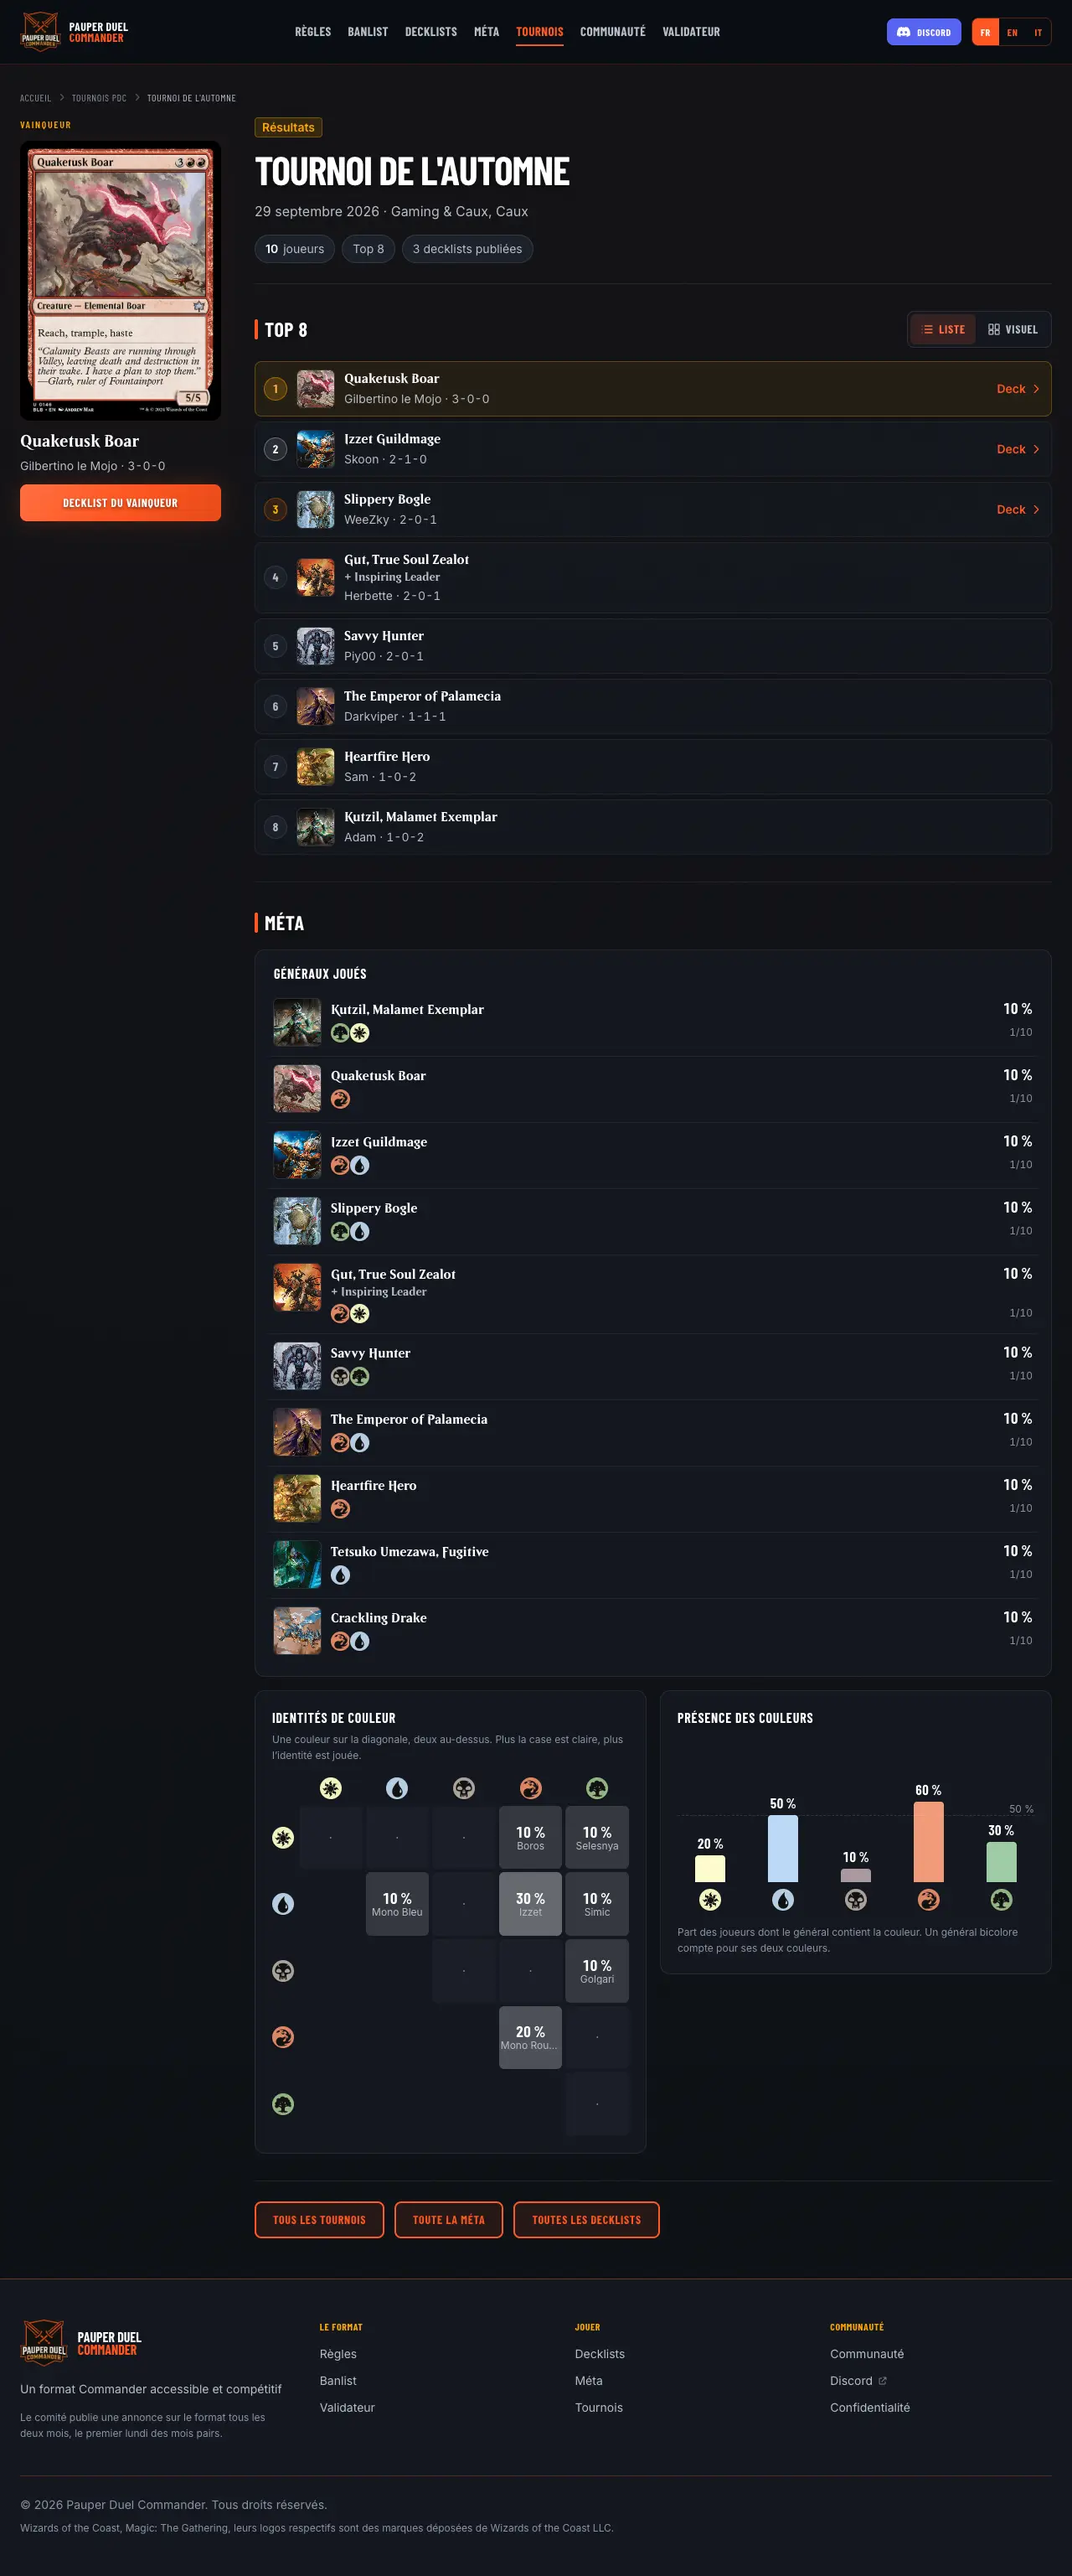
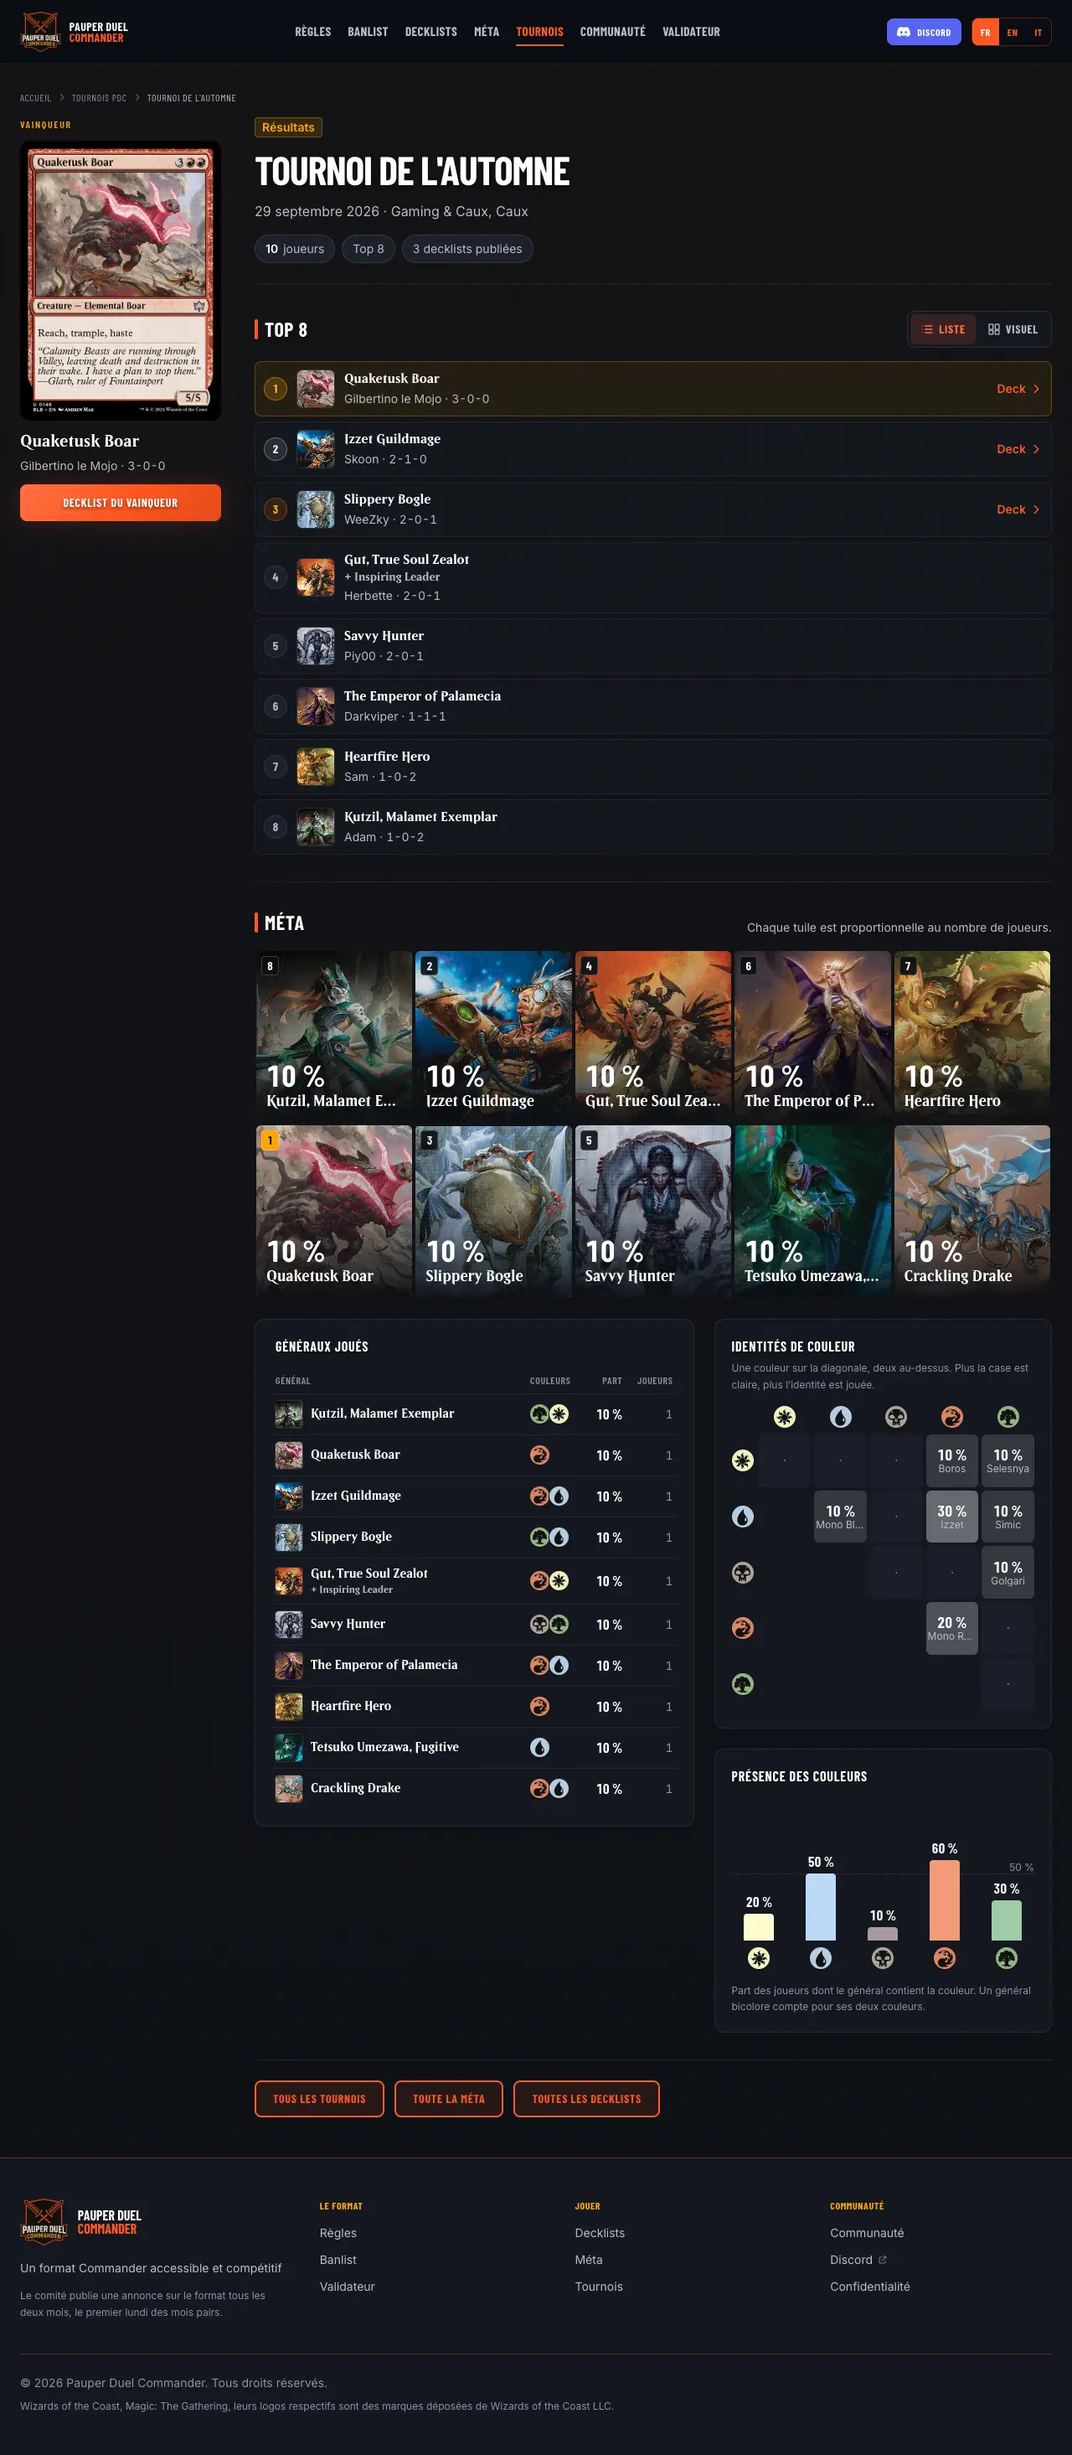
Tournoi : le plateau en mosaïque, places du top 8 marquées
Retenu après prototypes (la mosaïque de tous les tournois sur la liste a été
écartée) :
- La section Méta d'un tournoi reprend la page méta : mosaïque du plateau, puis
  le tableau, la grille des guildes et les colonnes de couleurs. La meilleure
  place atteinte au top 8 est marquée sur la tuile du général (or pour le
  vainqueur) : on voit ce qui a été joué et ce qui a converti.
- Le tableau de la page méta devient un composant partagé (CommanderTable).
- Les places se retrouvent aussi par la carte principale : un top 8 peut écrire
  « Gut, True Soul Zealot » là où le plateau note la paire avec son partenaire.

diff --git a/site/src/styles/results.css b/site/src/styles/results.css
@@ -50,6 +50,11 @@
     @apply bg-magic-gold border-magic-gold-light text-bg-primary;
   }
 
+  /* A place reached in the top 8, on a mosaic tile: its label is at the bottom. */
+  .tile-badge--top {
+    @apply top-1.5 bottom-auto;
+  }
+
   .tile-badge--banned {
     @apply top-1.5 right-1.5 bottom-auto left-auto text-xs uppercase tracking-wider bg-red-600 border-red-400 text-white;
   }

diff --git a/CLAUDE.md b/CLAUDE.md
@@ -317,7 +317,11 @@ réencodées, pas des sources :
   est un conteneur de taille : ses libellés apparaissent selon la place
   (requêtes `@container` dans `results.css`, tailles de police hors utilitaires).
   Identités en grille des guildes (`GuildGrid`), couleurs en colonnes
-  (`ColorColumns`), sur la page méta comme sur chaque tournoi.
+  (`ColorColumns`), chiffres exacts dans `CommanderTable`.
+- Page d'un tournoi : son plateau suit le même schéma (mosaïque, tableau, guildes,
+  couleurs) ; la meilleure place de chaque général au top 8 est marquée sur sa
+  tuile (`places`, clé sur le nom complet et sur la carte principale, car un top 8
+  peut écrire une paire sans son partenaire).
 - Une barre de part (`share-bar`) mesure sa part sur 100 %, jamais par rapport au
   plus grand de sa liste, et se lit à côté de son nombre imprimé. Avec une échelle
   par graphique, 6 % dessinait une barre pleine à côté d'une couleur à 51 % en
